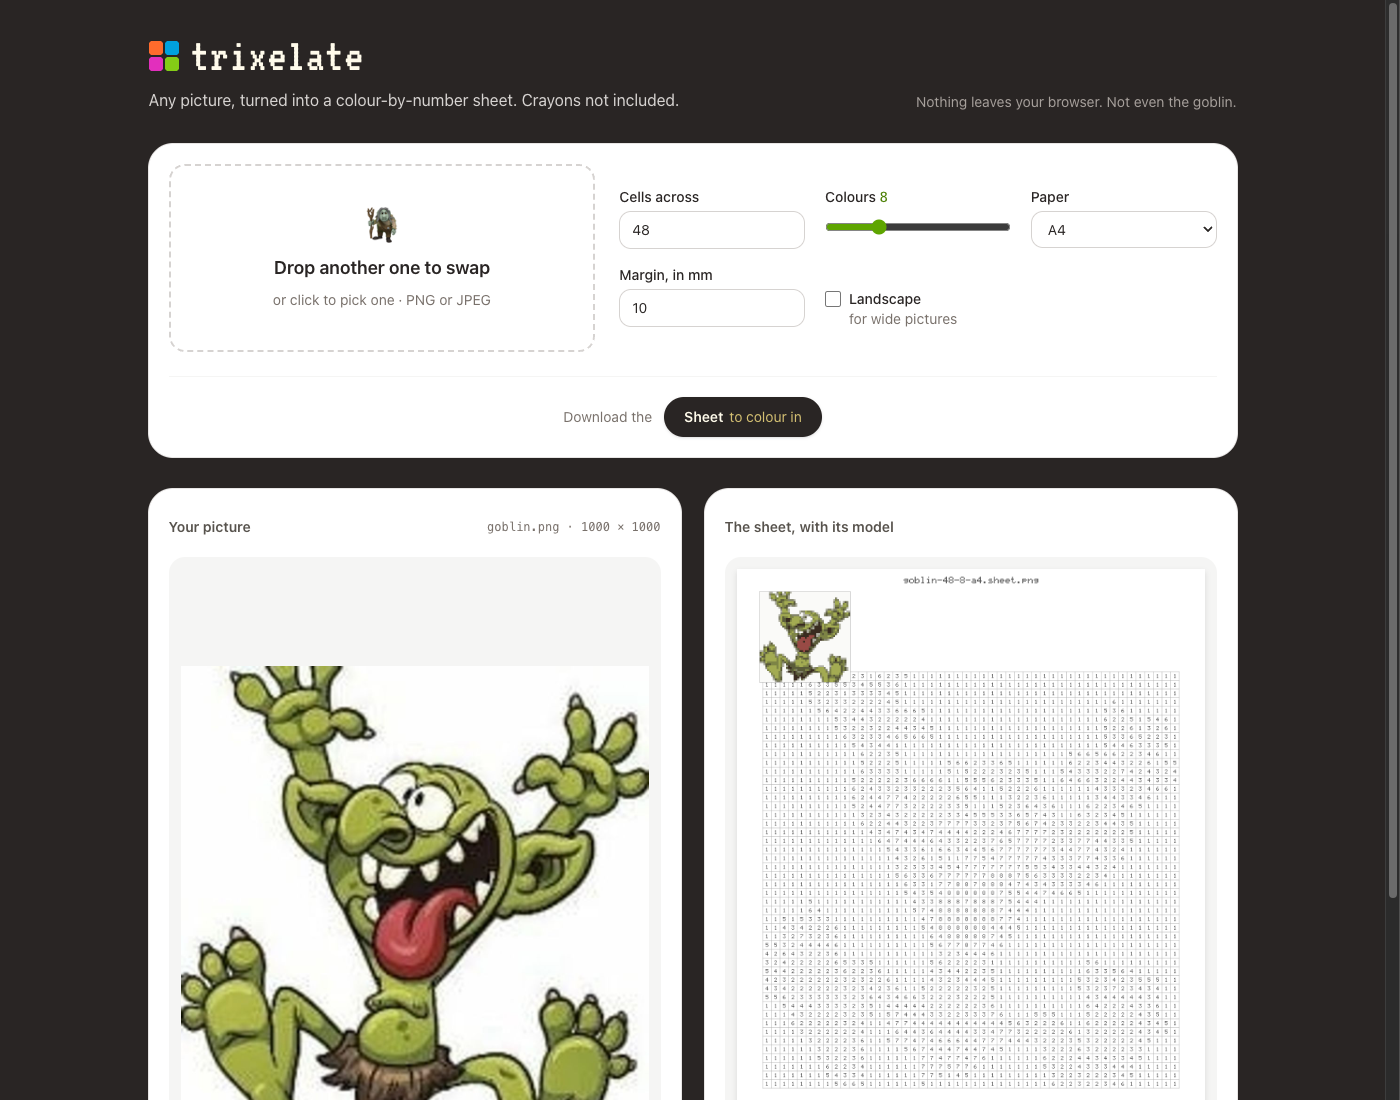
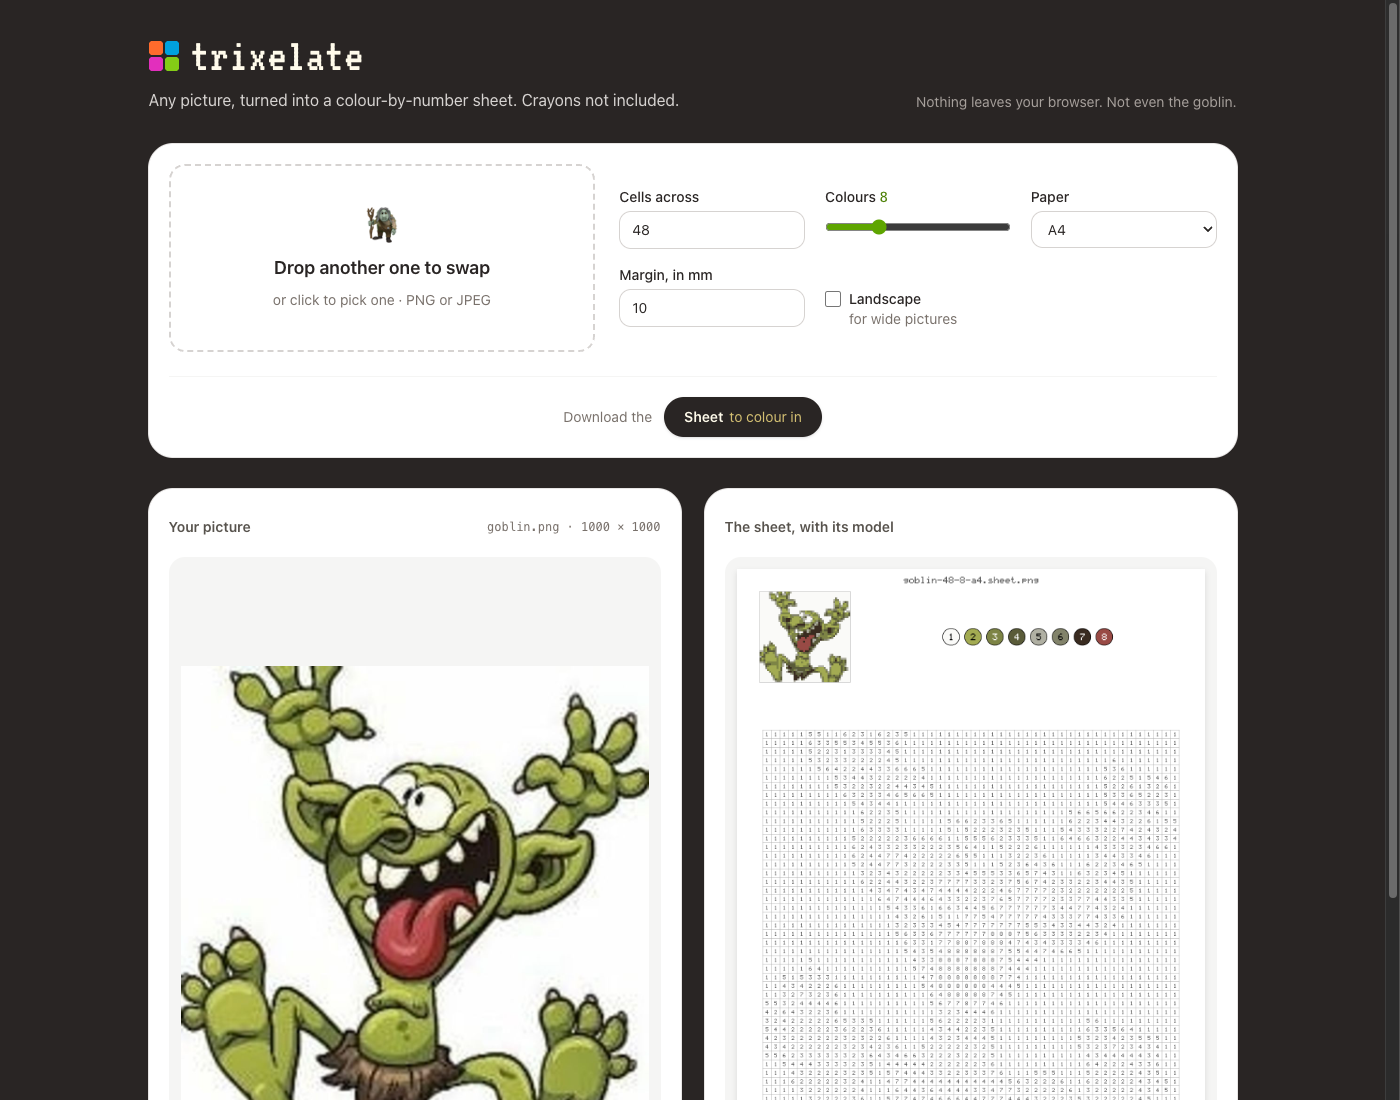
docs: upright, the legend sits right of the model and the grid below

Changed region(s): [[0.5529, 0.6182, 0.86, 1.0], [0.6757, 0.5564, 0.7986, 0.5873]]

diff --git a/README.md b/README.md
@@ -6,7 +6,7 @@
 
 **Any picture, turned into a colour-by-number pixel sheet ready to print.**
 
-trixelate reads a PNG or a JPEG, simplifies it into a grid of square cells, finds its dominant colours and writes a page where every cell carries the number of its colour, with a legend of coloured bubbles at the bottom. The child colours each cell with the crayon its number points to, and the picture appears in pixel art.
+trixelate reads a PNG or a JPEG, simplifies it into a grid of square cells, finds its dominant colours and writes a page where every cell carries the number of its colour, with a legend of coloured bubbles. The child colours each cell with the crayon its number points to, and the picture appears in pixel art.
 
 ## Why
 
@@ -53,7 +53,7 @@ A goblin turned into a sheet to colour with `trixelate sample/goblin.png`: 48 ce
 
 | Picture | Sheet |
 | --- | --- |
-| ![A cheerful green goblin, arms up, sticking out its red tongue](sample/goblin.png) | ![The goblin as a colour-by-number sheet: a grid of numbered cells above a legend of eight coloured bubbles, the goblin in miniature and in colour in the page's top left corner, over the grid's corner, the file name on top](sample/goblin.sheet.png) |
+| ![A cheerful green goblin, arms up, sticking out its red tongue](sample/goblin.png) | ![The goblin as a colour-by-number sheet: the goblin in miniature and in colour in the page's top left corner, a legend of eight coloured bubbles beside it, the grid of numbered cells below, the file name on top](sample/goblin.sheet.png) |
 
 ## In the browser
 
@@ -74,11 +74,11 @@ make web-build  # a static site in crates/trixelate-web/dist, for any host
 2. **The grid keeps the picture's proportions**, its rows following from `--width`, and **each cell averages the pixels it covers**, so a detail too small for the grid still tints its cell; a grid finer than its picture repeats its pixels.
 3. **The palette is cut from the cells' colours**: the box of colours that spreads the most is cut through the middle of its widest channel until there are as many boxes as colours asked, and each box gives its weighted average. Far-apart colours are never merged, and colour 1 is the one used most.
 4. **Every cell takes the number of its nearest palette colour**, and a colour no cell takes is dropped, so every bubble has cells to colour.
-5. **The layout gives the cells the largest square side the page allows**, inside the margin and above the legend, and the largest digits each cell and bubble can hold.
-6. **The model sits in miniature in the page's top left corner**, inside the margin, a block of colour per cell, framed, with no number and no line. It is seven thirty-seconds of the grid's width, over the grid where they meet, the grid staying centred above the legend whichever way up the paper lies. The sheet is then titled with its file name, as big as the bubbles' numbers.
+5. **The layout gives the cells the largest square side the page allows**, inside the margin and clear of the legend, and the largest digits each cell and bubble can hold.
+6. **The model sits in miniature in the page's top left corner**, inside the margin, a block of colour per cell, framed, with no number and no line. It is seven thirty-seconds of the grid's width. Upright, the legend sits in the room right of it, centred on its middle, and the grid is centred in the room below; on its side, the grid is centred above the legend at the bottom. The model lies over the grid where they meet. The sheet is then titled with its file name, as big as the bubbles' numbers.
 7. **A small credit is written at the bottom right**, in the margin: trixelate and its licence.
 
-![A twelve-colour sheet on A5: the grid of numbered cells, the twelve colours in miniature over its top left corner, the legend below, the file name on top](crates/trixelate-cli/tests/golden/twelve-a5.sheet.png)
+![A twelve-colour sheet on A5: the twelve colours in miniature in the top left corner, the legend beside them, the grid of numbered cells below, the file name on top](crates/trixelate-cli/tests/golden/twelve-a5.sheet.png)
 
 The workspace holds the library, `crates/trixelate`, the command line, `crates/trixelate-cli`, and the page, `crates/trixelate-web`. The library takes bytes and gives bytes, with no file or terminal in it, so it can also run in a browser as WebAssembly. The words it uses are in the [glossary](GLOSSARY.md).
 

diff --git a/GLOSSARY.md b/GLOSSARY.md
@@ -15,7 +15,7 @@ The words trixelate's code and docs use, read before naming anything.
 | **Page format** | The paper the sheet is drawn for, A3, A4 or A5, at 300 dots per inch. |
 | **Orientation** | Which way up the paper lies: portrait, upright, or landscape, on its side. |
 | **Margin** | The blank paper around the sheet's content, 10 mm unless asked otherwise, from 5 mm, the room the title and the credit need, to 20 mm, leaving the room to the cells. |
-| **Legend** | The row of bubbles centred at the bottom of a sheet, whichever way up the paper lies. |
+| **Legend** | The row of bubbles of a sheet: upright, right of the model and centred on its middle; on its side, centred at the bottom. |
 | **Credit** | The small line at the bottom right of every sheet, in its margin: trixelate and its licence. |
 | **Title** | The sheet's file name, centred in the top margin of every sheet, as big as the bubbles' numbers. |
 | **Bubble** | A disc filled with one palette colour, its colour number written inside. |
